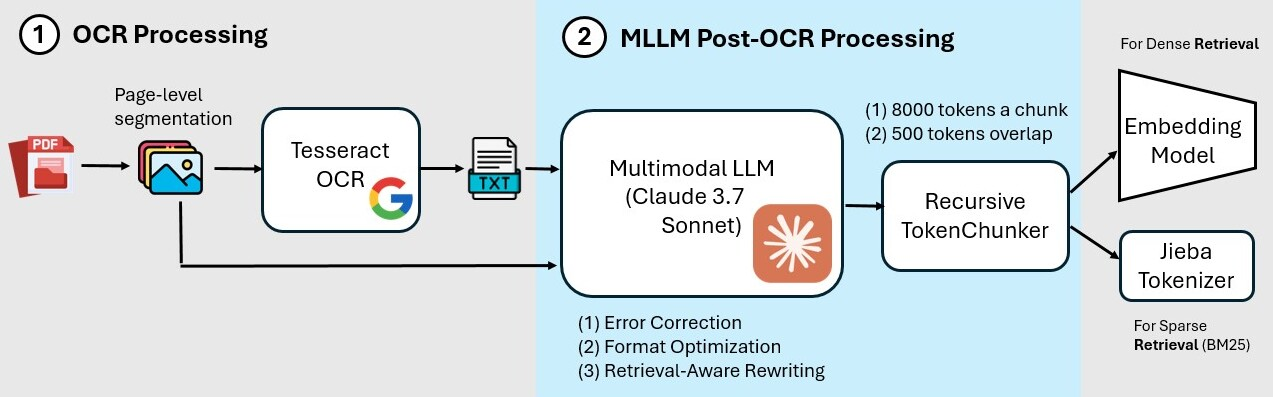
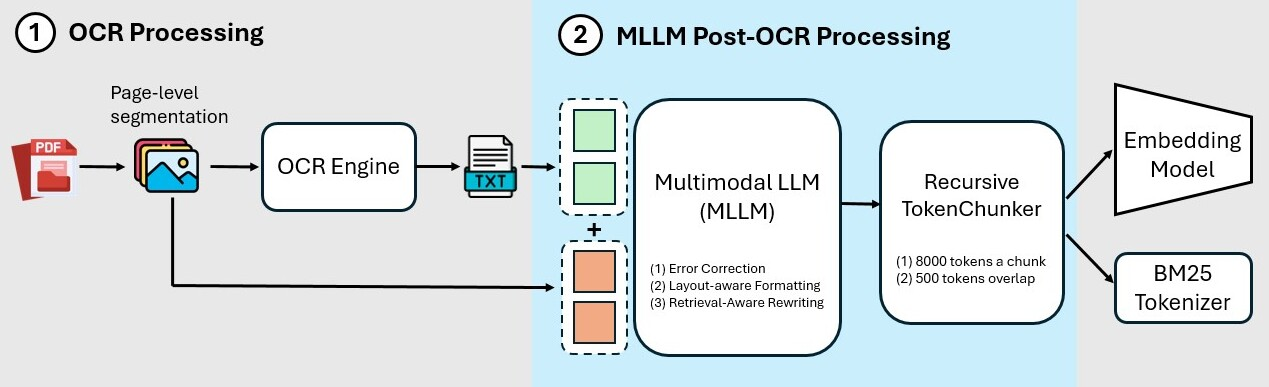
update camera-ready version

diff --git a/README.md b/README.md
@@ -7,7 +7,7 @@ Official Code Repository for the paper ["KAP: MLLM-assisted OCR Text Enhancement
 <div align="center">
   <img alt="KAP Overview" src="./images/model.jpg" width="800px">
 </div>
-We propose Knowledge-Aware Preprocessing (KAP), a two-stage preprocessing framework tailored for Traditional Chinese non-narrative documents, designed to enhance retrieval accuracy in Hybrid Retrieval systems. Hybrid Retrieval, which integrates Sparse Retrieval (e.g., BM25) and Dense Retrieval (e.g., vector embeddings), has become a widely adopted approach for improving search effectiveness. However, its performance heavily depends on the quality of input text, which is often degraded when dealing with non-narrative documents such as PDFs containing financial statements, contractual clauses, and tables. KAP addresses these challenges by integrating Multimodal Large Language Models (MLLMs) with LLM-driven post-OCR processing, refining extracted text to reduce OCR noise, restore table structures, and optimize text format. By ensuring better compatibility with Hybrid Retrieval, KAP improves the accuracy of both Sparse and Dense Retrieval methods without modifying the retrieval architecture itself.
+Hybrid Retrieval systems, combining Sparse and Dense Retrieval methods, struggle with Traditional Chinese non-narrative documents due to their complex formatting and rich vocabulary where common embedding models often fail to understand synonyms. Previous approaches inadequately address the dual needs of these systems, which require both high-quality tokens for Sparse Retrieval and semantically coherent text for Dense Retrieval. We propose Knowledge-Aware Preprocessing (KAP), a two-stage framework that first extracts text using OCR, then employs Multimodal Large Language Models to improve the OCR output by integrating visual information from the original documents. KAP reduces OCR noise, restores structural elements, and formats text to satisfy the distinct requirements of both retrieval methods. Empirical results demonstrate that KAP consistently and significantly outperforms conventional preprocessing approaches.
 
 ## Installation
 
